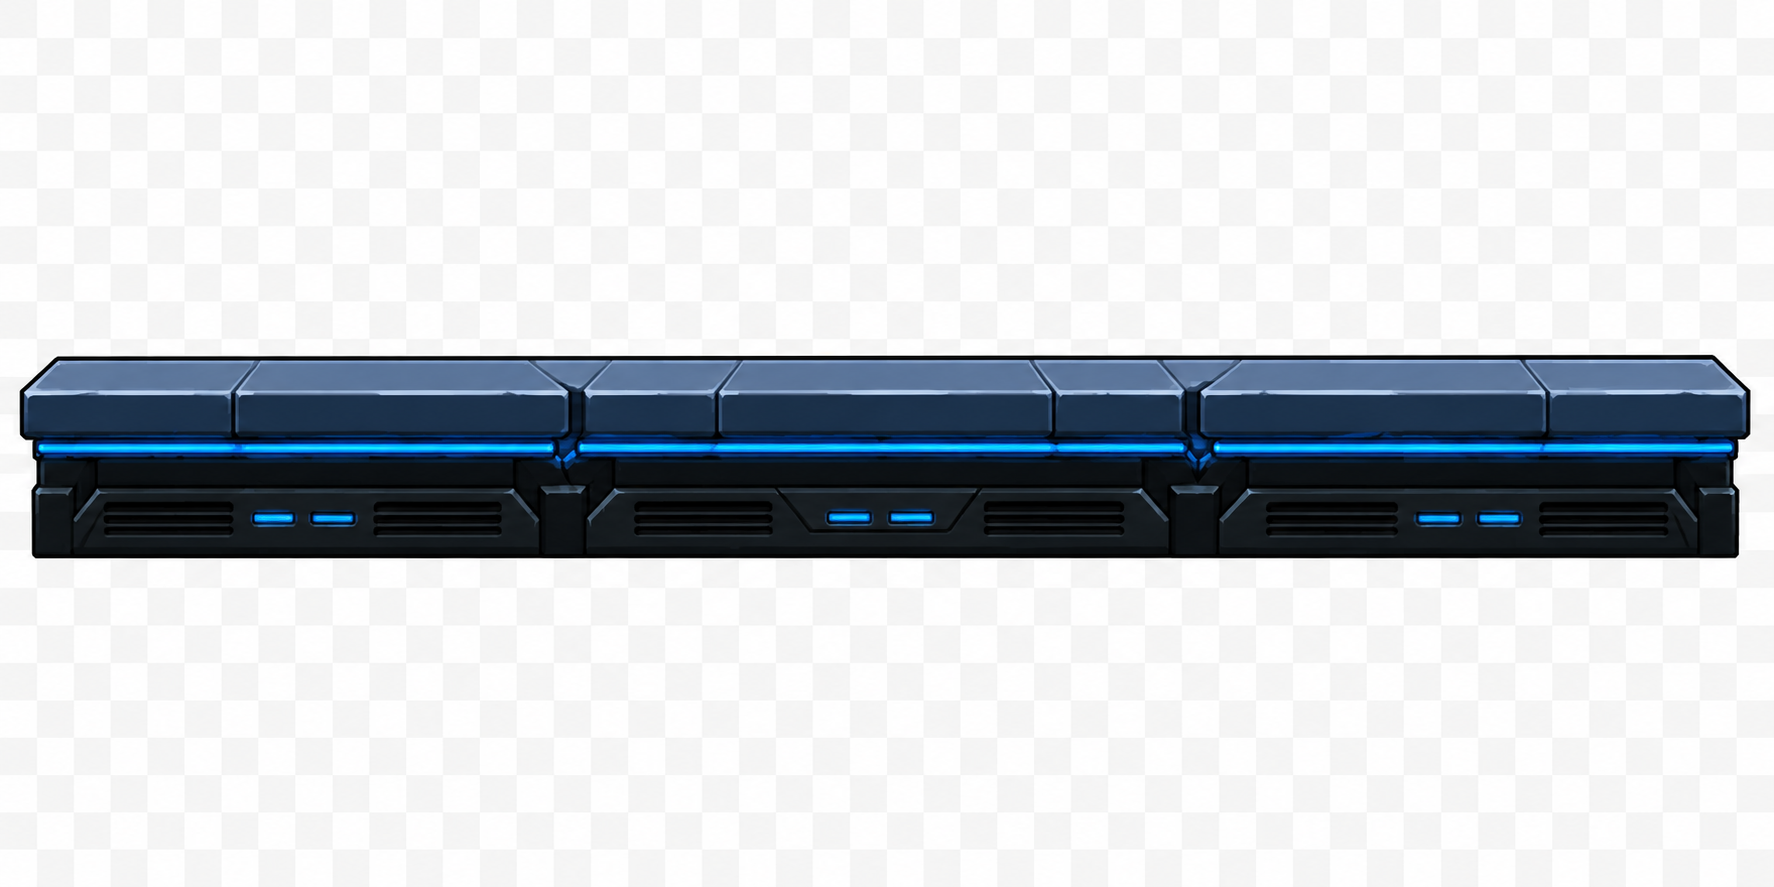
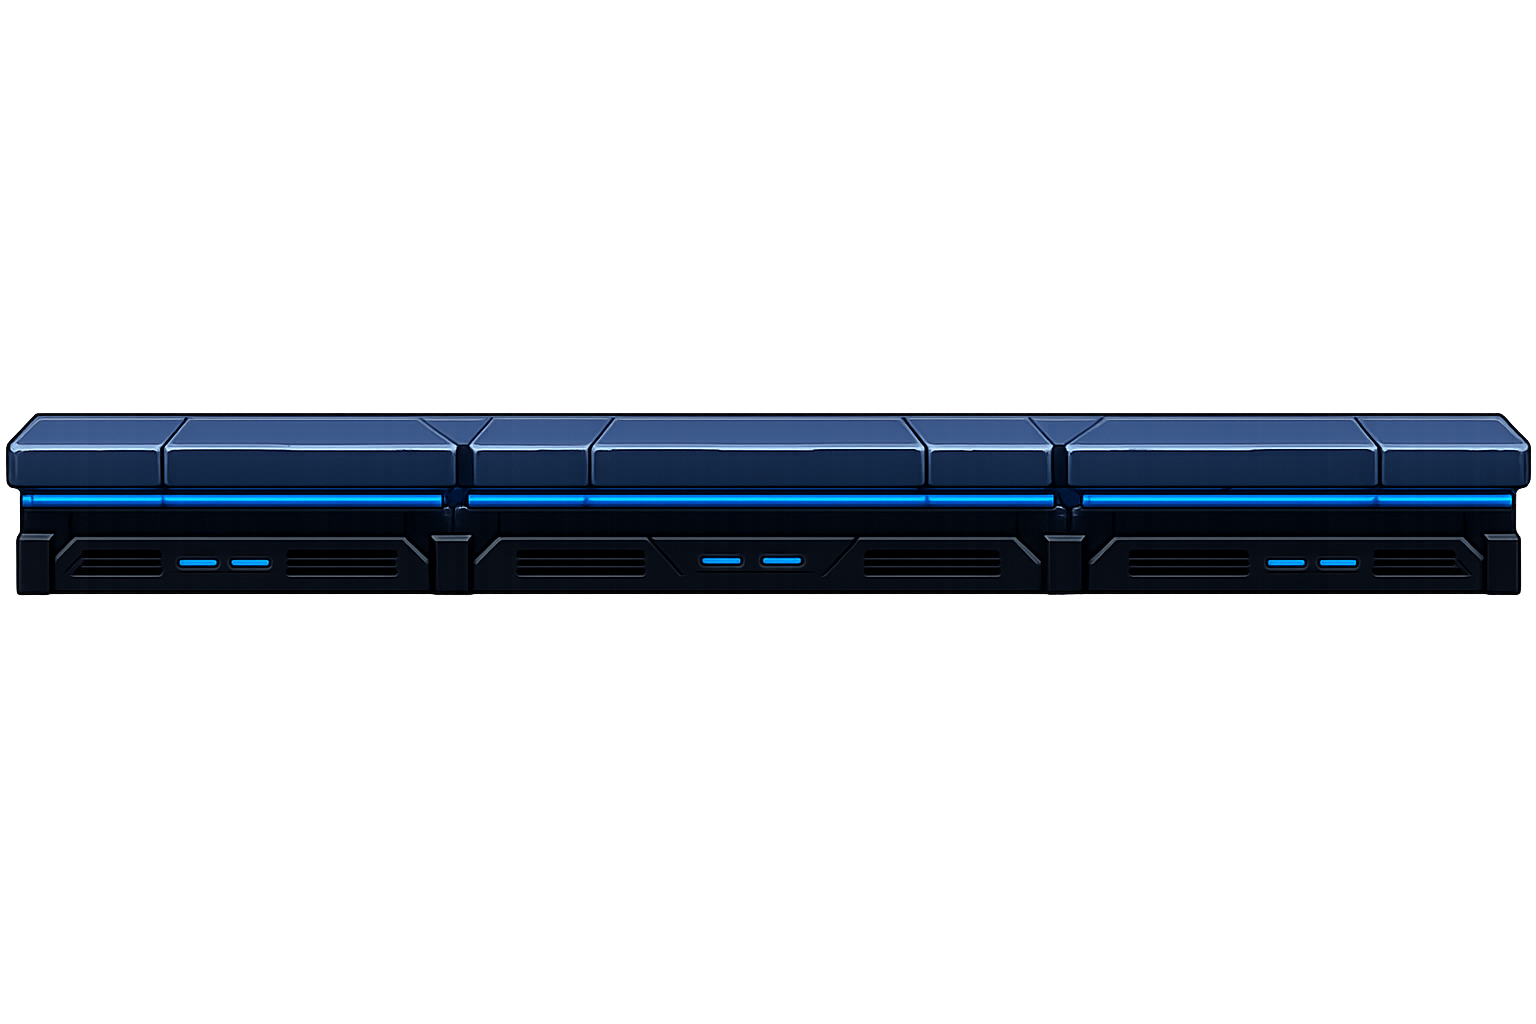
updated game platform moves not finished just need to fix bugs

Changed region(s): [[0.0, 0.3957, 1.0, 0.6392]]

diff --git a/src/js/GameScene.js b/src/js/GameScene.js
@@ -4,7 +4,9 @@ import { Resources } from './resources.js'
 import { Player } from './Player.js'
 import { ObstacleManager } from './ObstacleManager.js'
 
-const SCROLL_SPEED = 300
+const BASE_SCROLL_SPEED = 300
+const MAX_SCROLL_SPEED  = 650
+const SPEED_RAMP_RATE   = 0.012   // px/s gained per ms elapsed
 
 export class GameScene extends ex.Scene {
     #player
@@ -15,6 +17,9 @@ export class GameScene extends ex.Scene {
     #healthLabel
     #coinLabel
     #livesLabel
+    #speedLabel
+
+    #platforms = []
 
     onInitialize(engine) {
         this.#setupBackground(engine)
@@ -26,7 +31,13 @@ export class GameScene extends ex.Scene {
 
         this.add(this.#player)
 
-        this.#obstacleManager = new ObstacleManager(this, SCROLL_SPEED, this.#player)
+        // Pass a live-speed getter so ObstacleManager always reads
+        // the current (increasing) scroll speed, not a fixed number
+        this.#obstacleManager = new ObstacleManager(
+            this,
+            () => this.#currentScrollSpeed(),
+            this.#player
+        )
 
         this.#setupUI()
     }
@@ -58,9 +69,29 @@ export class GameScene extends ex.Scene {
         this.#elapsed += delta
         this.#obstacleManager.update(delta, this.#elapsed)
 
+        const speed = this.#currentScrollSpeed()
+
+        // Scroll the platforms at the current (increasing) speed
+        this.#platforms.forEach(platform => {
+            platform.pos.x -= speed * (delta / 1000)
+            if (platform.pos.x < -640) {
+                platform.pos.x += 2560
+            }
+        })
+
         this.#healthLabel.text = `Health: ${this.#player.health}/100`
         this.#coinLabel.text = `Coins: ${this.#player.coins}`
         this.#livesLabel.text = `Lives: ${this.#player.lives}`
+        this.#speedLabel.text = `Speed: ${Math.round(speed)}`
+    }
+
+    // Speed increases gradually with elapsed time, capped at MAX_SCROLL_SPEED.
+    // "Hoe langer je in leven blijft, hoe sneller de speler rent."
+    #currentScrollSpeed() {
+        return Math.min(
+            MAX_SCROLL_SPEED,
+            BASE_SCROLL_SPEED + this.#elapsed * SPEED_RAMP_RATE
+        )
     }
 
     #setupUI() {
@@ -94,52 +125,54 @@ export class GameScene extends ex.Scene {
             }),
         })
 
+        this.#speedLabel = new ex.Label({
+            text: 'Speed: 300',
+            pos: ex.vec(30, 145),
+            z: 1000,
+            font: new ex.Font({
+                size: 24,
+                color: ex.Color.LightGray,
+            }),
+        })
+
         this.add(this.#healthLabel)
         this.add(this.#coinLabel)
         this.add(this.#livesLabel)
+        this.add(this.#speedLabel)
     }
 
-    #setupBackground(engine) {
-        const background = new ex.Actor({
-            pos: ex.vec(engine.drawWidth / 2, engine.drawHeight / 2),
-            z: -1000,
+#setupBackground(engine) {
+    const background = new ex.Actor({
+        pos: ex.vec(640, 360),
+        z: -1000,
+    })
+
+    const sprite = Resources.Background.toSprite()
+    // Image is now exactly 1280x720 — no scaling needed
+    background.graphics.use(sprite)
+    this.add(background)
+}
+
+   #setupPlatforms() {
+    this.#platforms = []
+
+    for (let i = 0; i < 2; i++) {
+        const platform = new ex.Actor({
+            pos: ex.vec(640 + 1280 * i, 635),
+            width: 1280,
+            height: 130,
+            z: 100,
+            collisionType: ex.CollisionType.PreventCollision,
         })
 
-        const sprite = Resources.Background.toSprite()
+        const sprite = Resources.Platform.toSprite()
+        sprite.scale = ex.vec(1280 / 1774, 130 / 204)   // ← updated to match cropped image
+        platform.graphics.use(sprite)
 
-        sprite.destSize = {
-            width: engine.drawWidth,
-            height: engine.drawHeight,
-        }
-
-        background.graphics.use(sprite)
-        this.add(background)
+        this.add(platform)
+        this.#platforms.push(platform)
     }
-
-    #setupPlatforms() {
-        for (let i = 0; i < 2; i++) {
-            const platform = new ex.Actor({
-                pos: ex.vec(640 + 1280 * i, 635),
-                width: 1280,
-                height: 130,
-                z: 100,
-                collisionType: ex.CollisionType.PreventCollision,
-            })
-
-            const sprite = Resources.Platform.toSprite()
-            platform.graphics.use(sprite)
-
-            platform.on('preupdate', (event) => {
-                platform.pos.x -= SCROLL_SPEED * (event.delta / 1000)
-
-                if (platform.pos.x < -640) {
-                    platform.pos.x += 2560
-                }
-            })
-
-            this.add(platform)
-        }
-    }
+}
 
     #onPlayerDie(finalCoins) {
         this.#active = false
@@ -152,6 +185,7 @@ export class GameScene extends ex.Scene {
 
         localStorage.setItem('cyberRunLastScore', finalCoins)
 
+        Resources.BGMusic.stop()
         this.engine.goToScene('gameover')
     }
 }

diff --git a/src/js/ObstacleManager.js b/src/js/ObstacleManager.js
@@ -27,11 +27,13 @@ export class ObstacleManager {
     #coinInterval = 1800
     #lifeUpInterval = 12000
 
-    #scrollSpeed = 300
+    // Base scroll speed — actual speed is read live from #getSpeed callback
+    #getSpeed
 
-    constructor(scene, scrollSpeed = 300, player) {
+    constructor(scene, getSpeed, player) {
         this.#scene = scene
-        this.#scrollSpeed = scrollSpeed
+        // Support both: a number (legacy) or a function that returns the live speed
+        this.#getSpeed = typeof getSpeed === 'function' ? getSpeed : () => getSpeed
         this.#player = player
     }
 
@@ -103,19 +105,26 @@ export class ObstacleManager {
         }
     }
 
+    // Random size factor between 0.7x and 1.5x — gives obstacles varying afmetingen
+    #randomSizeScale() {
+        return 0.7 + Math.random() * 0.8
+    }
+
     #spawnBullet() {
         if (this.#bullets.length >= BULLET_CAP) return
 
         const y = BULLET_HEIGHTS[Math.floor(Math.random() * BULLET_HEIGHTS.length)]
-        const speed = 400 + Math.random() * 200
-        const bullet = new Bullet(SPAWN_X, y, speed, this.#player)
+        const speed = this.#getSpeed() + 100 + Math.random() * 200
+        const sizeScale = this.#randomSizeScale()
+        const bullet = new Bullet(SPAWN_X, y, speed, this.#player, sizeScale)
 
         this.#bullets.push(bullet)
         this.#scene.add(bullet)
     }
 
     #spawnBarrier() {
-        const barrier = new Barrier(SPAWN_X, GROUND_Y, this.#scrollSpeed)
+        const sizeScale = this.#randomSizeScale()
+        const barrier = new Barrier(SPAWN_X, GROUND_Y, this.#getSpeed(), sizeScale)
 
         this.#barriers.push(barrier)
         this.#scene.add(barrier)
@@ -124,14 +133,14 @@ export class ObstacleManager {
     #spawnCoin() {
         const heights = [470, 370, 290]
         const y = heights[Math.floor(Math.random() * heights.length)]
-        const coin = new Coin(SPAWN_X, y, this.#scrollSpeed)
+        const coin = new Coin(SPAWN_X, y, this.#getSpeed())
 
         this.#coins.push(coin)
         this.#scene.add(coin)
     }
 
     #spawnLifeUp() {
-        const lifeUp = new LifeUp(SPAWN_X, 360, this.#scrollSpeed)
+        const lifeUp = new LifeUp(SPAWN_X, 360, this.#getSpeed())
 
         this.#lifeUps.push(lifeUp)
         this.#scene.add(lifeUp)

diff --git a/src/js/Barrier.js b/src/js/Barrier.js
@@ -4,21 +4,26 @@ import { overlaps } from './overlaps.js'
 
 export class Barrier extends ex.Actor {
     #hit = false
+    #scaleFactor = 1
 
-    constructor(x, y, speed) {
+    constructor(x, y, speed, sizeScale = 1) {
+        const width  = 90 * sizeScale
+        const height = 70 * sizeScale
+
         super({
             pos:    ex.vec(x, y),
-            width:  90,
-            height: 70,
+            width,
+            height,
             collisionType: ex.CollisionType.PreventCollision,
             z: 40
         })
         this.speed = speed
+        this.#scaleFactor = sizeScale
     }
 
     onInitialize() {
         const sprite = Resources.Barrier.toSprite()
-        sprite.scale = ex.vec(0.20, 0.20)
+        sprite.scale = ex.vec(0.20 * this.#scaleFactor, 0.20 * this.#scaleFactor)
         this.graphics.use(sprite)
     }
 

diff --git a/src/js/Bullet.js b/src/js/Bullet.js
@@ -4,22 +4,27 @@ import { overlaps } from './overlaps.js'
 
 export class Bullet extends ex.Actor {
     #hit = false
+    #scaleFactor = 1
 
-    constructor(x, y, speed, player) {
+    constructor(x, y, speed, player, sizeScale = 1) {
+        const width  = 10 * sizeScale
+        const height = 10 * sizeScale
+
         super({
             pos:    ex.vec(x, y),
-            width:  10,
-            height: 10,
+            width,
+            height,
             collisionType: ex.CollisionType.PreventCollision,
             z: 40
         })
         this.speed  = speed
         this.player = player
+        this.#scaleFactor = sizeScale
     }
 
     onInitialize() {
         const sprite = Resources.Bullet.toSprite()
-        sprite.scale          = ex.vec(0.15, 0.15)
+        sprite.scale          = ex.vec(0.15 * this.#scaleFactor, 0.15 * this.#scaleFactor)
         sprite.flipHorizontal = true
         this.graphics.use(sprite)
     }

diff --git a/src/js/game.js b/src/js/game.js
@@ -4,16 +4,18 @@ import * as ex from 'excalibur'
 import { ResourceLoader } from './resources.js'
 import { GameScene } from './GameScene.js'
 import { GameOverScene } from './GameOverScene.js'
+
 const game = new ex.Engine({
     width: 1280,
     height: 720,
+    resolution: { width: 1280, height: 720 },
     displayMode: ex.DisplayMode.FitScreen,
-    
+    pixelArt: false,
 })
 
 game.start(ResourceLoader).then(() => {
     console.log('✅ All assets loaded!')
-     game.addScene('game', new GameScene())
+    game.addScene('game', new GameScene())
     game.addScene('gameover', new GameOverScene())
     game.goToScene('game')
 }).catch((err) => {